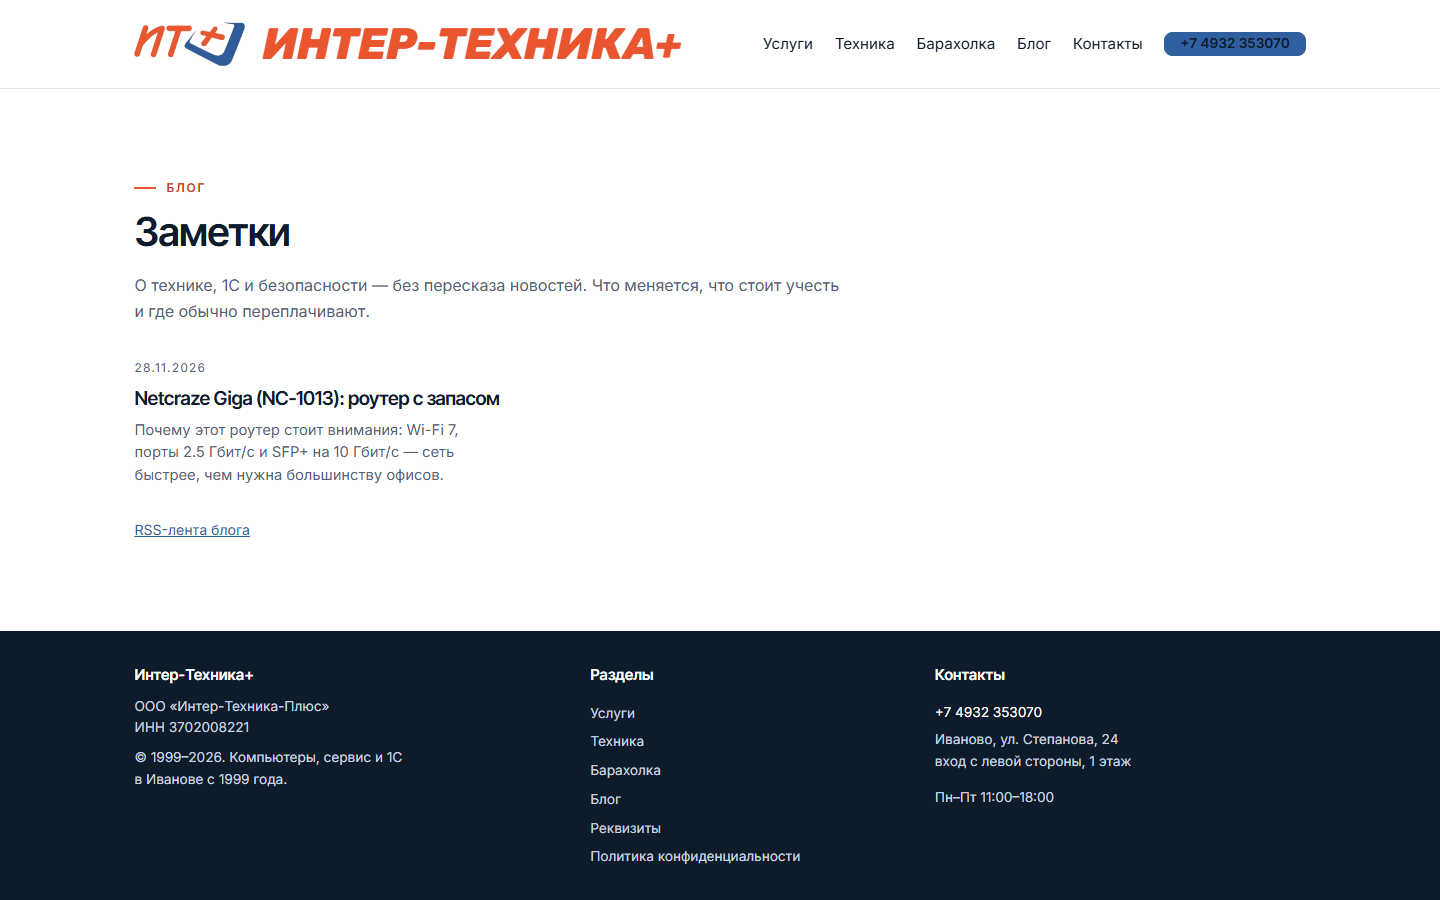
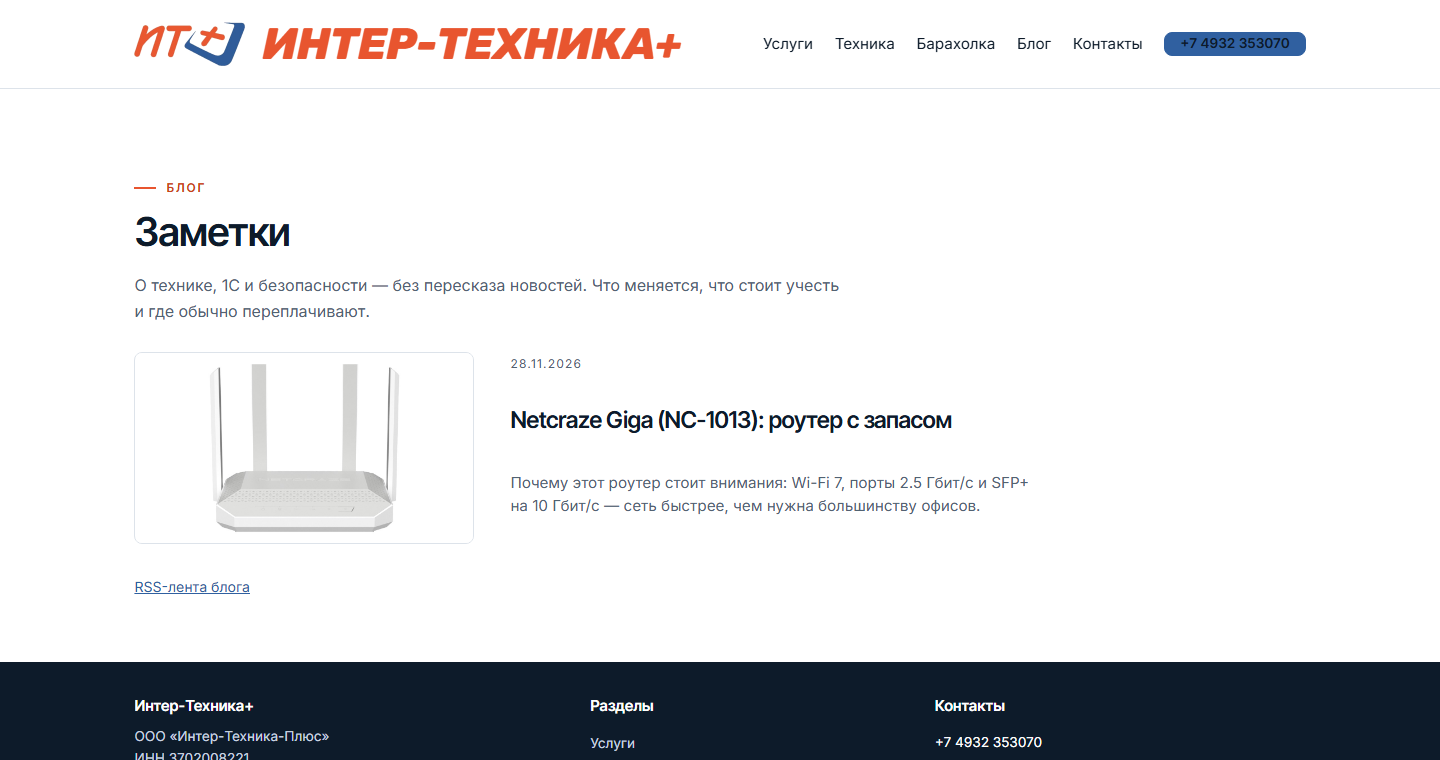
Блог: широкая карточка статьи, отдельное фото на обложке; фото товара в каталоге

diff --git a/assets/style.css b/assets/style.css
@@ -1900,3 +1900,90 @@ body > main { flex: 1 0 auto; }
   -webkit-box-orient: vertical;
   overflow: hidden;
 }
+/* Первая статья в списке — широкой карточкой: обложка слева, текст справа */
+@media (min-width: 860px) {
+  .post-card--wide {
+    grid-column: 1 / -1;
+    display: flex;
+    align-items: flex-start;
+    gap: clamp(20px, 3vw, 40px);
+  }
+  .post-card--wide .post-card__media {
+    flex: 0 0 clamp(260px, 30vw, 380px);
+    height: clamp(146px, 17vw, 214px);
+    aspect-ratio: auto;
+    margin: 0;
+    background: var(--white);
+    border: 1px solid var(--line);
+  }
+  .post-card--wide .post-card__media img { object-fit: contain; }
+  .post-card--wide .post-card__date { margin-top: 4px; }
+  .post-card--wide .post-card__title { font-size: 1.45rem; margin: 6px 0 10px; }
+  .post-card--wide .post-card__excerpt { font-size: .95rem; max-width: 56ch; }
+}
+/* Первая статья в списке — широкой карточкой: обложка слева, текст справа */
+@media (min-width: 860px) {
+  .post-card--wide {
+    grid-column: 1 / -1;
+    display: flex;
+    align-items: flex-start;
+    gap: clamp(20px, 3vw, 40px);
+  }
+  .post-card--wide .post-card__media {
+    flex: 0 0 clamp(240px, 28vw, 360px);
+    width: clamp(240px, 28vw, 360px);
+    height: clamp(135px, 15.75vw, 202px);
+    aspect-ratio: auto;
+    margin: 0;
+    background: var(--white);
+    border: 1px solid var(--line);
+  }
+  .post-card--wide .post-card__media img {
+    width: 100%;
+    height: 100%;
+    object-fit: contain;
+  }
+  .post-card--wide .post-card__date { margin-top: 4px; }
+  .post-card--wide .post-card__title { font-size: 1.45rem; margin: 6px 0 10px; }
+  .post-card--wide .post-card__excerpt { font-size: .95rem; max-width: 56ch; }
+}
+/* Широкая карточка первой статьи: обложка слева, текст справа (перекрывает ранние правила) */
+.post-card--wide {
+  display: grid;
+  grid-template-columns: clamp(240px, 26vw, 340px) minmax(0, 1fr);
+  grid-template-areas:
+    "media date"
+    "media title"
+    "media excerpt";
+  column-gap: clamp(20px, 2.6vw, 36px);
+  row-gap: 0;
+  align-content: start;
+  grid-column: 1 / -1;
+}
+.post-card--wide .post-card__media {
+  grid-area: media;
+  align-self: start;
+  width: 100%;
+  height: auto;
+  aspect-ratio: 16 / 9;
+  margin: 0;
+  background: var(--white);
+  border: 1px solid var(--line);
+}
+.post-card--wide .post-card__media img {
+  width: 100%;
+  height: 100%;
+  object-fit: contain;
+}
+.post-card--wide .post-card__date { grid-area: date; margin: 2px 0 0; }
+.post-card--wide .post-card__title { grid-area: title; font-size: 1.45rem; margin: 6px 0 10px; }
+.post-card--wide .post-card__excerpt { grid-area: excerpt; max-width: 56ch; font-size: .95rem; }
+
+@media (max-width: 700px) {
+  .post-card--wide {
+    grid-template-columns: 1fr;
+    grid-template-areas: "media" "date" "title" "excerpt";
+    row-gap: 8px;
+  }
+  .post-card--wide .post-card__media { aspect-ratio: 16 / 9; }
+}

diff --git a/index.html b/index.html
@@ -29,7 +29,7 @@
   <link rel="preload" href="assets/fonts/rubik-wm-cyrillic.woff2" as="font" type="font/woff2" crossorigin>
   <link rel="preload" href="assets/fonts/inter-cyrillic.woff2" as="font" type="font/woff2" crossorigin>
   <link rel="preload" href="assets/fonts/inter-tight-cyrillic.woff2" as="font" type="font/woff2" crossorigin>
-  <link rel="stylesheet" href="assets/style.css?v=20261167">
+  <link rel="stylesheet" href="assets/style.css?v=20261172">
 
   <script type="application/ld+json">
   {
@@ -81,7 +81,7 @@
   <header class="site-header">
     <div class="container header-inner">
       <a class="brand" href="#top" aria-label="Интер-Техника-Плюс — на главную">
-        <img class="brand-logo" src="assets/logo.png?v=20261167" alt="Интер-Техника-Плюс" width="112" height="44">
+        <img class="brand-logo" src="assets/logo.png?v=20261172" alt="Интер-Техника-Плюс" width="112" height="44">
         <span class="brand-name">Интер-Техника<span class="brand-plus">+</span></span>
       </a>
 
@@ -426,8 +426,8 @@
     <a class="btn btn--ghost" href="https://yandex.ru/maps/org/1043257440/" target="_blank" rel="noopener">Написать</a>
   </div>
 
-  <script src="assets/app.js?v=20261167" defer></script>
-<script src="assets/hours.js?v=20261167" defer></script>
-  <script src="assets/map.js?v=20261167" defer></script>
+  <script src="assets/app.js?v=20261172" defer></script>
+<script src="assets/hours.js?v=20261172" defer></script>
+  <script src="assets/map.js?v=20261172" defer></script>
 </body>
 </html>

diff --git a/new.html b/new.html
@@ -21,13 +21,13 @@
   <link rel="icon" href="assets/favicon-32.png" type="image/png" sizes="32x32">
   <link rel="icon" href="assets/favicon-192.png" type="image/png" sizes="192x192">
   <link rel="apple-touch-icon" href="assets/apple-touch-icon.png" sizes="180x180">
-  <link rel="stylesheet" href="assets/style.css?v=20261167">
+  <link rel="stylesheet" href="assets/style.css?v=20261172">
 </head>
 <body>
   <header class="site-header">
     <div class="container header-inner">
       <a class="brand" href="index.html" aria-label="Интер-Техника-Плюс — на главную">
-        <img class="brand-logo" src="assets/logo.png?v=20261167" alt="Интер-Техника-Плюс" width="112" height="44">
+        <img class="brand-logo" src="assets/logo.png?v=20261172" alt="Интер-Техника-Плюс" width="112" height="44">
         <span class="brand-name">Интер-Техника<span class="brand-plus">+</span></span>
       </a>
       <button class="nav-toggle" type="button" aria-expanded="false" aria-controls="nav">
@@ -130,8 +130,8 @@
   </div>
 </footer>
 
-  <script src="assets/app.js?v=20261167" defer></script>
-<script src="assets/hours.js?v=20261167" defer></script>
-  <script src="assets/catalog.js?v=20261167" defer></script>
+  <script src="assets/app.js?v=20261172" defer></script>
+<script src="assets/hours.js?v=20261172" defer></script>
+  <script src="assets/catalog.js?v=20261172" defer></script>
 </body>
 </html>

diff --git a/used.html b/used.html
@@ -21,13 +21,13 @@
   <link rel="icon" href="assets/favicon-32.png" type="image/png" sizes="32x32">
   <link rel="icon" href="assets/favicon-192.png" type="image/png" sizes="192x192">
   <link rel="apple-touch-icon" href="assets/apple-touch-icon.png" sizes="180x180">
-  <link rel="stylesheet" href="assets/style.css?v=20261167">
+  <link rel="stylesheet" href="assets/style.css?v=20261172">
 </head>
 <body>
   <header class="site-header">
     <div class="container header-inner">
       <a class="brand" href="index.html" aria-label="Интер-Техника-Плюс — на главную">
-        <img class="brand-logo" src="assets/logo.png?v=20261167" alt="Интер-Техника-Плюс" width="112" height="44">
+        <img class="brand-logo" src="assets/logo.png?v=20261172" alt="Интер-Техника-Плюс" width="112" height="44">
         <span class="brand-name">Интер-Техника<span class="brand-plus">+</span></span>
       </a>
       <button class="nav-toggle" type="button" aria-expanded="false" aria-controls="nav">
@@ -130,8 +130,8 @@
   </div>
 </footer>
 
-  <script src="assets/app.js?v=20261167" defer></script>
-<script src="assets/hours.js?v=20261167" defer></script>
-  <script src="assets/catalog.js?v=20261167" defer></script>
+  <script src="assets/app.js?v=20261172" defer></script>
+<script src="assets/hours.js?v=20261172" defer></script>
+  <script src="assets/catalog.js?v=20261172" defer></script>
 </body>
 </html>

diff --git a/requisites.html b/requisites.html
@@ -10,13 +10,13 @@
   <link rel="icon" href="assets/favicon-32.png" type="image/png" sizes="32x32">
   <link rel="icon" href="assets/favicon-192.png" type="image/png" sizes="192x192">
   <link rel="apple-touch-icon" href="assets/apple-touch-icon.png" sizes="180x180">
-  <link rel="stylesheet" href="assets/style.css?v=20261167">
+  <link rel="stylesheet" href="assets/style.css?v=20261172">
 </head>
 <body>
   <header class="site-header">
     <div class="container header-inner">
       <a class="brand" href="index.html" aria-label="Интер-Техника-Плюс — на главную">
-        <img class="brand-logo" src="assets/logo.png?v=20261167" alt="Интер-Техника-Плюс" width="112" height="44">
+        <img class="brand-logo" src="assets/logo.png?v=20261172" alt="Интер-Техника-Плюс" width="112" height="44">
         <span class="brand-name">Интер-Техника<span class="brand-plus">+</span></span>
       </a>
       <button class="nav-toggle" type="button" aria-expanded="false" aria-controls="nav">
@@ -160,7 +160,7 @@
   </div>
 </footer>
 
-  <script src="assets/app.js?v=20261167" defer></script>
-<script src="assets/hours.js?v=20261167" defer></script>
+  <script src="assets/app.js?v=20261172" defer></script>
+<script src="assets/hours.js?v=20261172" defer></script>
 </body>
 </html>

diff --git a/404.html b/404.html
@@ -9,13 +9,13 @@
   <link rel="icon" href="assets/favicon-32.png" type="image/png" sizes="32x32">
   <link rel="icon" href="assets/favicon-192.png" type="image/png" sizes="192x192">
   <link rel="apple-touch-icon" href="assets/apple-touch-icon.png" sizes="180x180">
-  <link rel="stylesheet" href="assets/style.css?v=20261167">
+  <link rel="stylesheet" href="assets/style.css?v=20261172">
 </head>
 <body>
   <header class="site-header">
     <div class="container header-inner">
       <a class="brand" href="index.html" aria-label="Интер-Техника-Плюс — на главную">
-        <img class="brand-logo" src="assets/logo.png?v=20261167" alt="Интер-Техника-Плюс" width="112" height="44">
+        <img class="brand-logo" src="assets/logo.png?v=20261172" alt="Интер-Техника-Плюс" width="112" height="44">
         <span class="brand-name">Интер-Техника<span class="brand-plus">+</span></span>
       </a>
       <nav class="nav" aria-label="Основная навигация">
@@ -73,7 +73,7 @@
   </div>
 </footer>
 
-  <script src="assets/app.js?v=20261167" defer></script>
-<script src="assets/hours.js?v=20261167" defer></script>
+  <script src="assets/app.js?v=20261172" defer></script>
+<script src="assets/hours.js?v=20261172" defer></script>
 </body>
 </html>

diff --git a/privacy.html b/privacy.html
@@ -13,13 +13,13 @@
   <link rel="canonical" href="https://ivu.ru/privacy.html">
 <link rel="icon" href="assets/favicon-192.png" type="image/png" sizes="192x192">
   <link rel="apple-touch-icon" href="assets/apple-touch-icon.png" sizes="180x180">
-  <link rel="stylesheet" href="assets/style.css?v=20261167">
+  <link rel="stylesheet" href="assets/style.css?v=20261172">
 </head>
 <body>
   <header class="site-header">
     <div class="container header-inner">
       <a class="brand" href="index.html" aria-label="Интер-Техника-Плюс — на главную">
-        <img class="brand-logo" src="assets/logo.png?v=20261167" alt="Интер-Техника-Плюс" width="112" height="44">
+        <img class="brand-logo" src="assets/logo.png?v=20261172" alt="Интер-Техника-Плюс" width="112" height="44">
         <span class="brand-name">Интер-Техника<span class="brand-plus">+</span></span>
       </a>
       <button class="nav-toggle" type="button" aria-expanded="false" aria-controls="nav">
@@ -145,7 +145,7 @@
   </div>
 </footer>
 
-  <script src="assets/app.js?v=20261167" defer></script>
-<script src="assets/hours.js?v=20261167" defer></script>
+  <script src="assets/app.js?v=20261172" defer></script>
+<script src="assets/hours.js?v=20261172" defer></script>
 </body>
 </html>

diff --git a/blog.php b/blog.php
@@ -185,7 +185,7 @@ $ogImage = $post !== null && (string) $post['cover'] !== ''
 <link rel="icon" href="/assets/favicon.ico" sizes="any">
 <link rel="icon" href="/assets/favicon-32.png" type="image/png" sizes="32x32">
 <link rel="apple-touch-icon" href="/assets/apple-touch-icon.png" sizes="180x180">
-<link rel="stylesheet" href="/assets/style.css?v=20261167">
+<link rel="stylesheet" href="/assets/style.css?v=20261172">
 <?php if ($post !== null): ?>
 <script type="application/ld+json">
 {
@@ -217,7 +217,7 @@ $ogImage = $post !== null && (string) $post['cover'] !== ''
 <header class="site-header">
   <div class="container header-inner">
     <a class="brand" href="/index.html" aria-label="Интер-Техника-Плюс — на главную">
-      <img class="brand-logo" src="/assets/logo.png?v=20261167" alt="Интер-Техника-Плюс" width="112" height="44">
+      <img class="brand-logo" src="/assets/logo.png?v=20261172" alt="Интер-Техника-Плюс" width="112" height="44">
       <span class="brand-name">Интер-Техника<span class="brand-plus">+</span></span>
     </a>
     <button class="nav-toggle" type="button" aria-expanded="false" aria-controls="nav">
@@ -359,8 +359,8 @@ $ogImage = $post !== null && (string) $post['cover'] !== ''
     <p class="catalog-empty">Пока пусто. Первая запись появится здесь.</p>
   <?php else: ?>
     <div class="posts">
-      <?php foreach ($posts as $entry): ?>
-        <article class="post-card">
+      <?php foreach ($posts as $index => $entry): ?>
+        <article class="post-card<?= $index === 0 ? ' post-card--wide' : '' ?>">
           <?php if ((string) $entry['cover'] !== ''): ?>
             <a class="post-card__media" href="/blog/<?= e($entry['slug']) ?>">
               <img src="<?= e($uploadUrl . $entry['cover']) ?>" alt="" loading="lazy" width="640" height="360">
@@ -410,7 +410,7 @@ $ogImage = $post !== null && (string) $post['cover'] !== ''
     </div>
   </div>
 </footer>
-<script src="/assets/app.js?v=20261167" defer></script>
-<script src="/assets/hours.js?v=20261167" defer></script>
+<script src="/assets/app.js?v=20261172" defer></script>
+<script src="/assets/hours.js?v=20261172" defer></script>
 </body>
 </html>

diff --git a/tovar.php b/tovar.php
@@ -108,7 +108,7 @@ $ogImage = $photos ? 'https://ivu.ru' . $uploadUrl . $photos[0] : 'https://ivu.r
 <link rel="icon" href="/assets/favicon.ico" sizes="any">
 <link rel="icon" href="/assets/favicon-32.png" type="image/png" sizes="32x32">
 <link rel="apple-touch-icon" href="/assets/apple-touch-icon.png" sizes="180x180">
-<link rel="stylesheet" href="/assets/style.css?v=20261167">
+<link rel="stylesheet" href="/assets/style.css?v=20261172">
 <?php if (!$notFound): ?>
 <script type="application/ld+json">
 {
@@ -132,7 +132,7 @@ $ogImage = $photos ? 'https://ivu.ru' . $uploadUrl . $photos[0] : 'https://ivu.r
 <header class="site-header">
   <div class="container header-inner">
     <a class="brand" href="/index.html" aria-label="Интер-Техника-Плюс — на главную">
-      <img class="brand-logo" src="/assets/logo.png?v=20261167" alt="Интер-Техника-Плюс" width="112" height="44">
+      <img class="brand-logo" src="/assets/logo.png?v=20261172" alt="Интер-Техника-Плюс" width="112" height="44">
       <span class="brand-name">Интер-Техника<span class="brand-plus">+</span></span>
     </a>
     <button class="nav-toggle" type="button" aria-expanded="false" aria-controls="nav">
@@ -354,7 +354,7 @@ $ogImage = $photos ? 'https://ivu.ru' . $uploadUrl . $photos[0] : 'https://ivu.r
     </div>
   </div>
 </footer>
-<script src="/assets/app.js?v=20261167" defer></script>
-<script src="/assets/hours.js?v=20261167" defer></script>
+<script src="/assets/app.js?v=20261172" defer></script>
+<script src="/assets/hours.js?v=20261172" defer></script>
 </body>
 </html>
